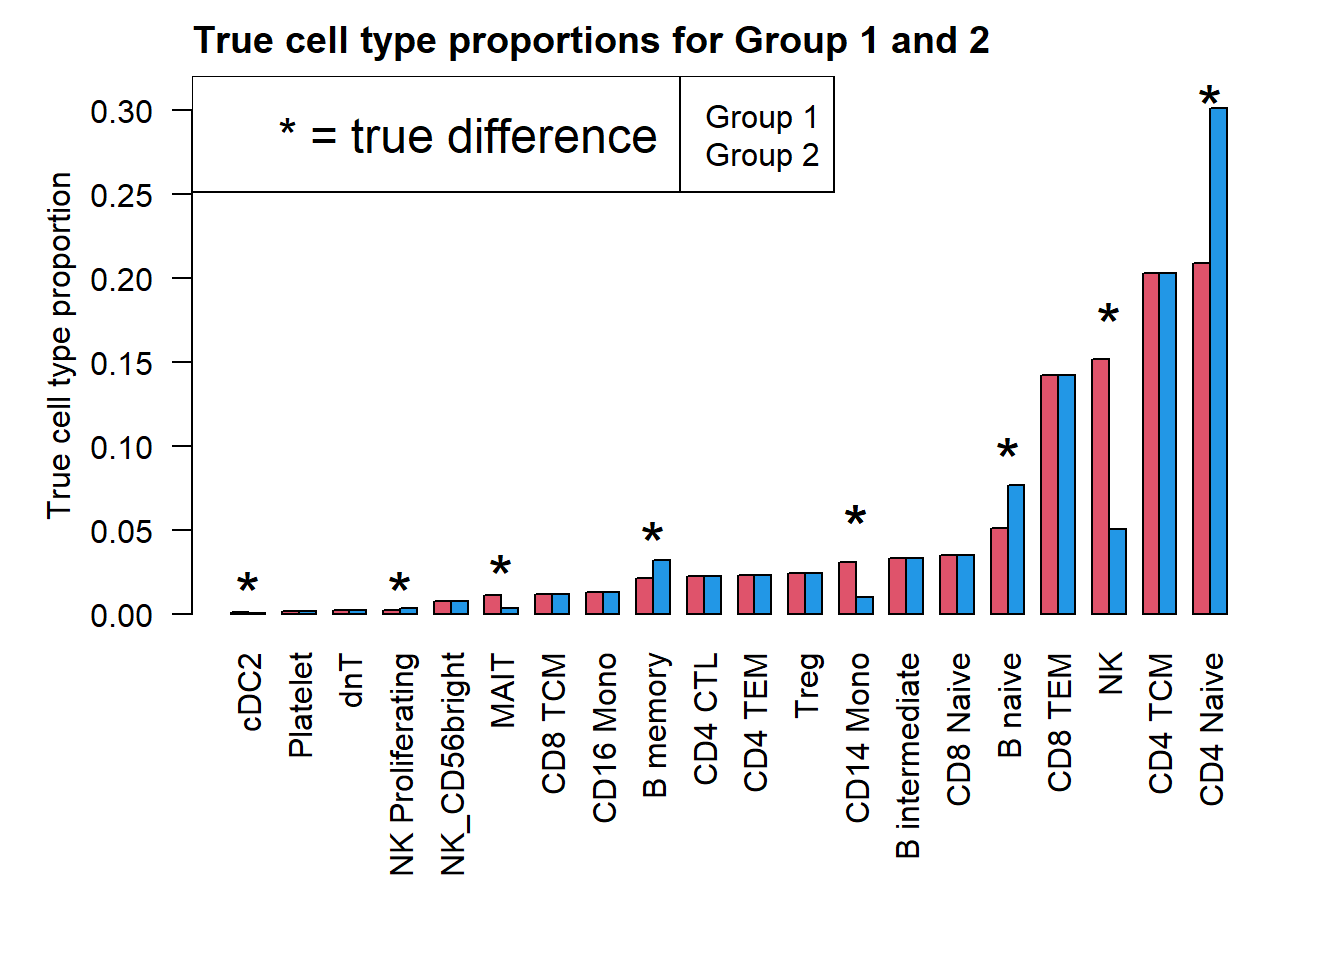
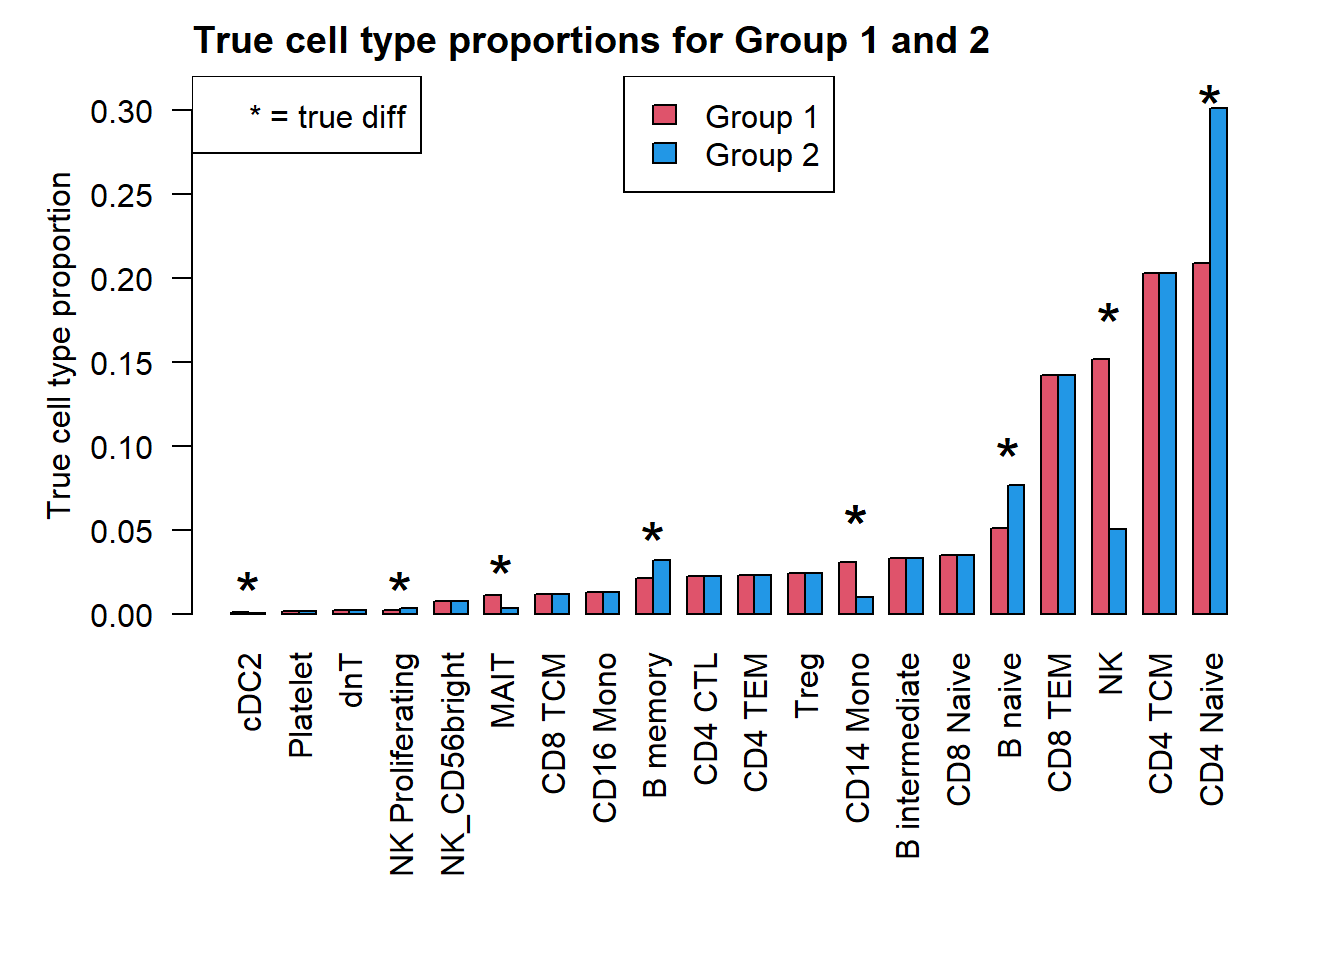
Build site.

Changed region(s): [[0.1875, 0.0938, 0.5312, 0.1875]]

diff --git a/docs/Sims2vs20CT.html b/docs/Sims2vs20CT.html
@@ -525,15 +525,15 @@ project makes it easier to run your code on other machines.</p>
 <div class="panel panel-default">
 <div class="panel-heading">
 <p class="panel-title">
-<a data-toggle="collapse" data-parent="#workflowr-checks" href="#strongRepositoryversionstrongahrefhttpsgithubcomphipsonlabpropellerpaperanalysistreeb239441ff07c603cec9799e8a31c9984972e1997targetblankb239441a">
+<a data-toggle="collapse" data-parent="#workflowr-checks" href="#strongRepositoryversionstrongahrefhttpsgithubcomphipsonlabpropellerpaperanalysistree5c6cf660f9fdf6943fb16cb5a2d9fe41e8898338targetblank5c6cf66a">
 <span class="glyphicon glyphicon-ok text-success"
 aria-hidden="true"></span> <strong>Repository version:</strong>
-<a href="https://github.com/phipsonlab/propeller-paper-analysis/tree/b239441ff07c603cec9799e8a31c9984972e1997" target="_blank">b239441</a>
+<a href="https://github.com/phipsonlab/propeller-paper-analysis/tree/5c6cf660f9fdf6943fb16cb5a2d9fe41e8898338" target="_blank">5c6cf66</a>
 </a>
 </p>
 </div>
 <div
[2 lines of base64/hex data omitted]
 class="panel-collapse collapse">
 <div class="panel-body">
 <p>
@@ -543,7 +543,7 @@ reproducibility.
 </p>
 <p>
 The results in this page were generated with repository version
-<a href="https://github.com/phipsonlab/propeller-paper-analysis/tree/b239441ff07c603cec9799e8a31c9984972e1997" target="_blank">b239441</a>.
+<a href="https://github.com/phipsonlab/propeller-paper-analysis/tree/5c6cf660f9fdf6943fb16cb5a2d9fe41e8898338" target="_blank">5c6cf66</a>.
 See the <em>Past versions</em> tab to see a history of the changes made
 to the R Markdown and HTML files.
 </p>
@@ -626,6 +626,40 @@ Message
 </tr>
 </thead>
 <tbody>
+<tr>
+<td>
+Rmd
+</td>
+<td>
+<a href="https://github.com/phipsonlab/propeller-paper-analysis/blob/5c6cf660f9fdf6943fb16cb5a2d9fe41e8898338/analysis/Sims2vs20CT.Rmd" target="_blank">5c6cf66</a>
+</td>
+<td>
+bphipson
+</td>
+<td>
+2022-06-03
+</td>
+<td>
+update simulations
+</td>
+</tr>
+<tr>
+<td>
+html
+</td>
+<td>
+<a href="https://rawcdn.githack.com/phipsonlab/propeller-paper-analysis/67456c7b37efcc295b8c2b2dde1666ae88a9d495/docs/Sims2vs20CT.html" target="_blank">67456c7</a>
+</td>
+<td>
+bphipson
+</td>
+<td>
+2022-06-03
+</td>
+<td>
+Build site.
+</td>
+</tr>
 <tr>
 <td>
 Rmd
@@ -2844,7 +2878,7 @@ text(38,0.06,label=&quot;*&quot;, cex=2)
 text(47,0.1,label=&quot;*&quot;, cex=2)
 text(53,0.18,label=&quot;*&quot;, cex=2)
 text(59,0.31,label=&quot;*&quot;, cex=2)
-legend(&quot;topleft&quot;,legend=&quot;* = true difference&quot;,cex=1.5)</code></pre>
+legend(&quot;topleft&quot;,legend=&quot;* = true diff&quot;)</code></pre>
 <p><img src="figure/Sims2vs20CT.Rmd/unnamed-chunk-30-1.png" width="672" style="display: block; margin: auto;" /></p>
 <pre class="r"><code># Get hyperparameters for alpha and beta
 # Note group 1 and group 2 have different b parameters to accommodate true
